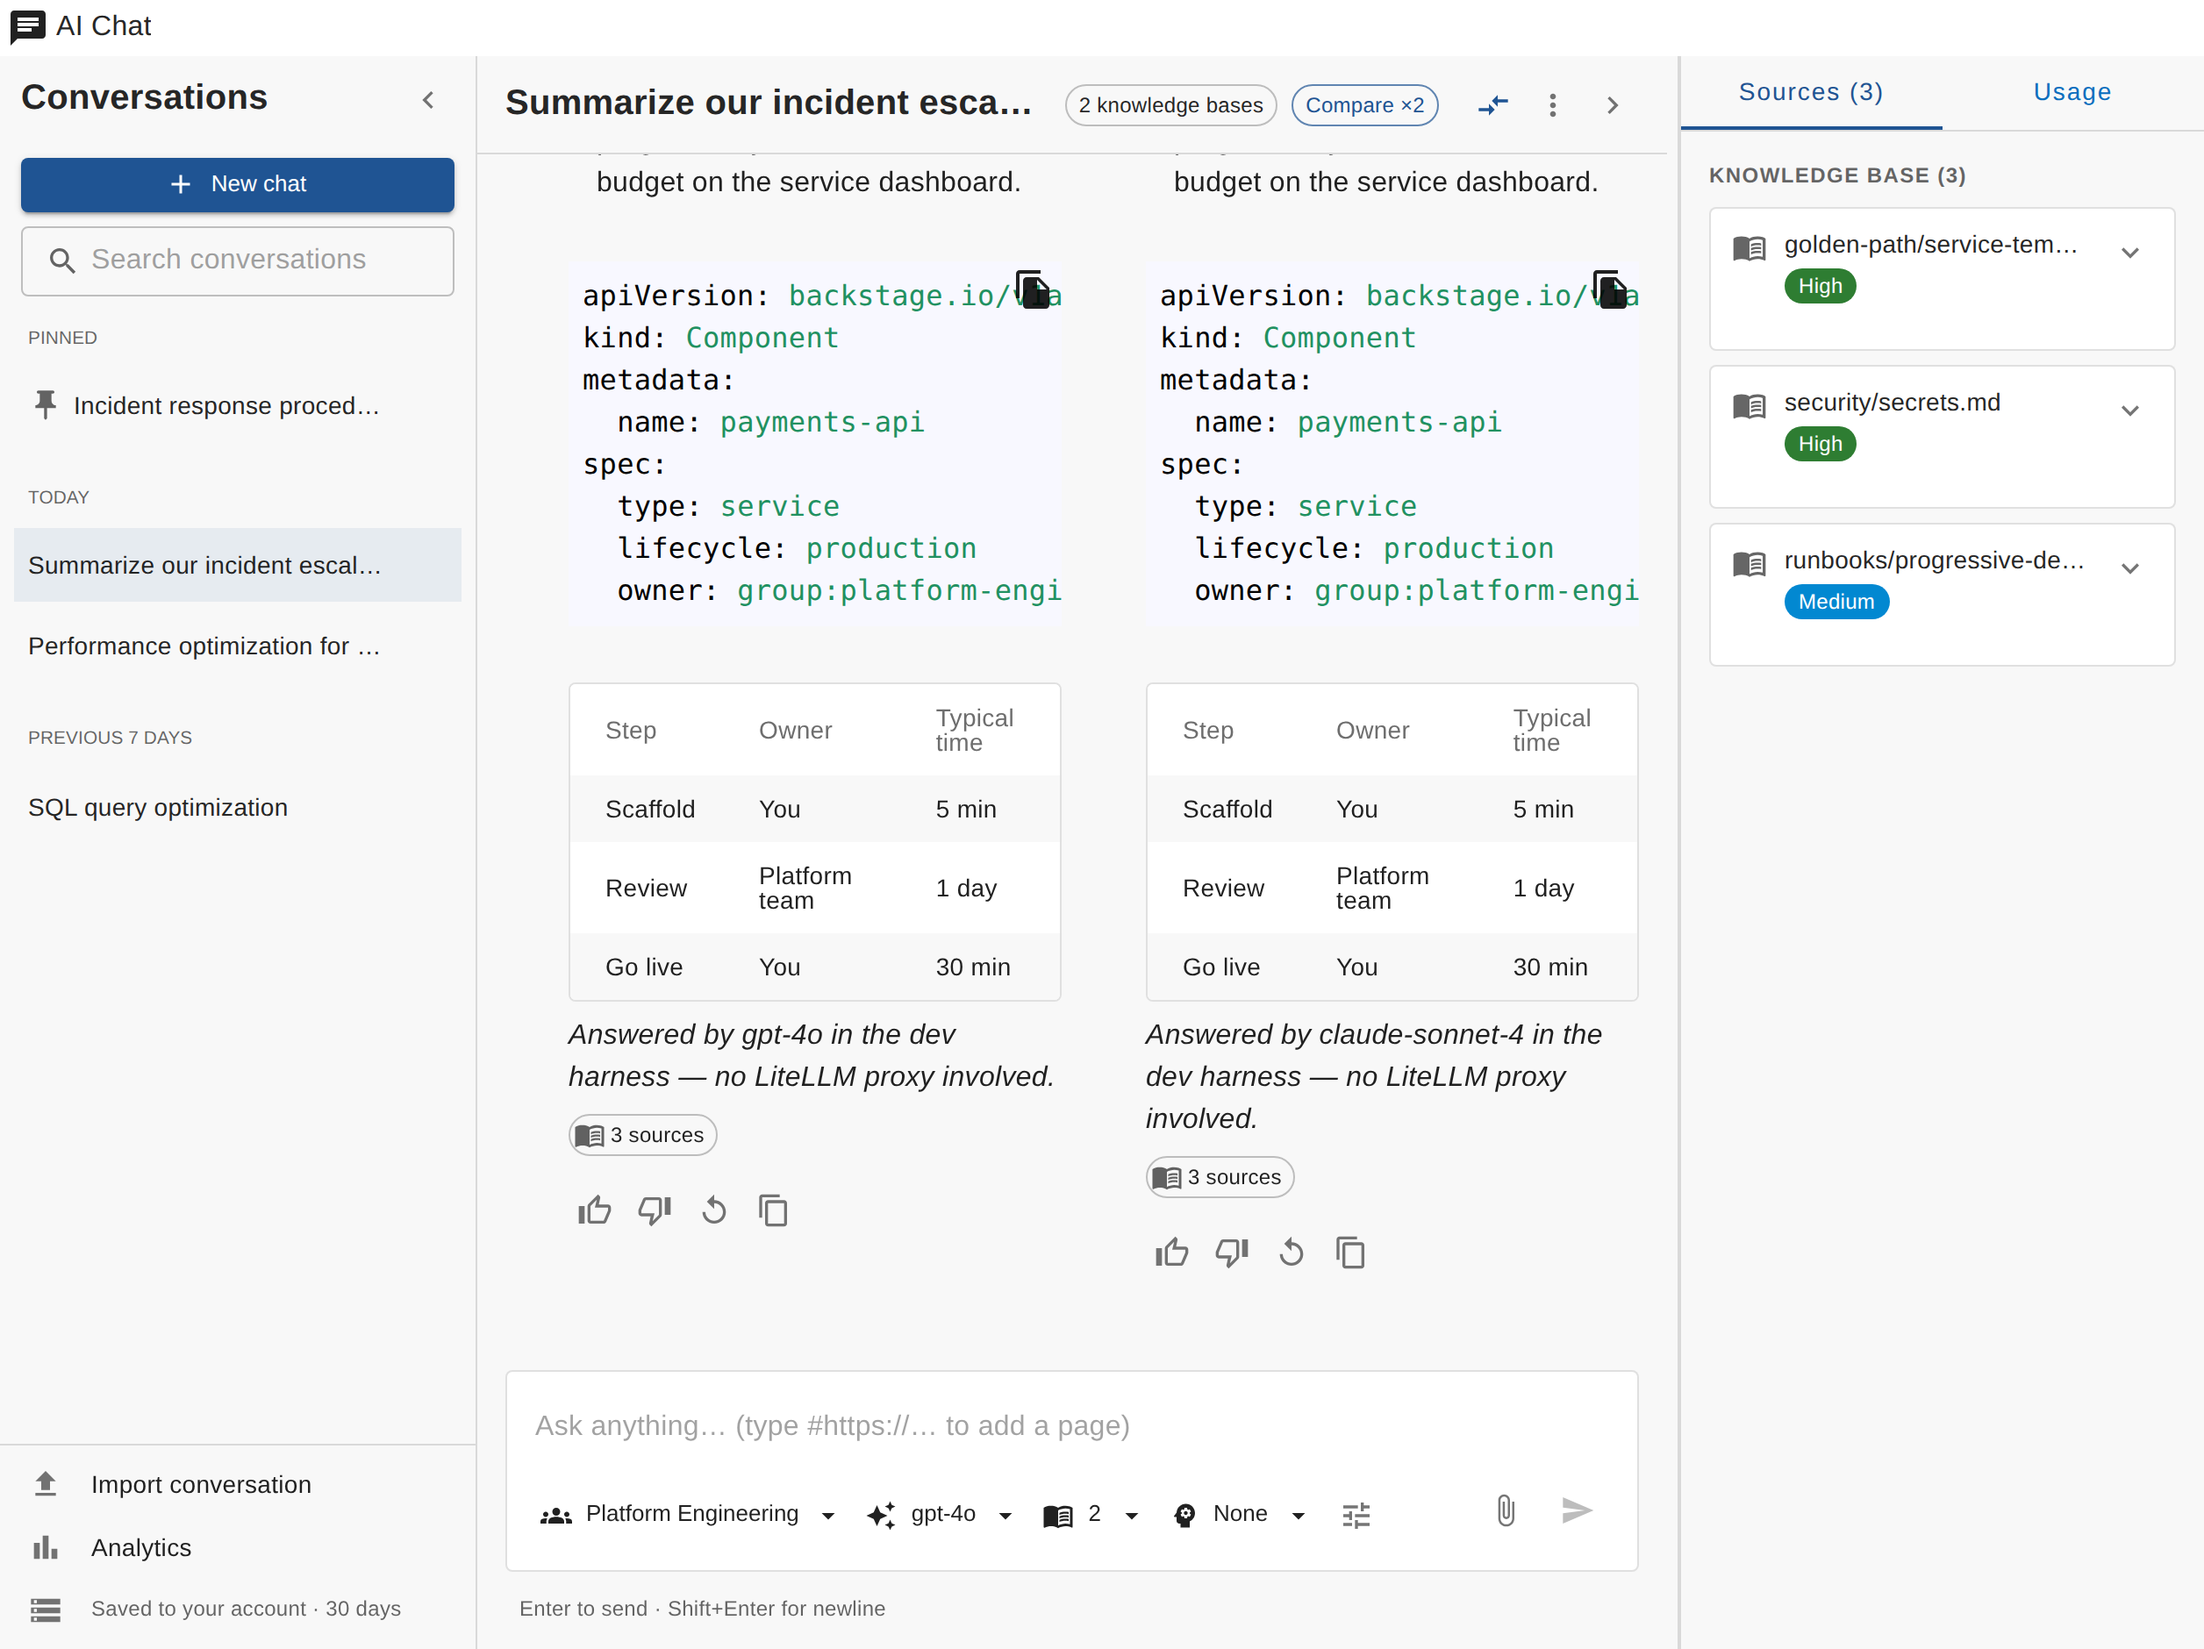
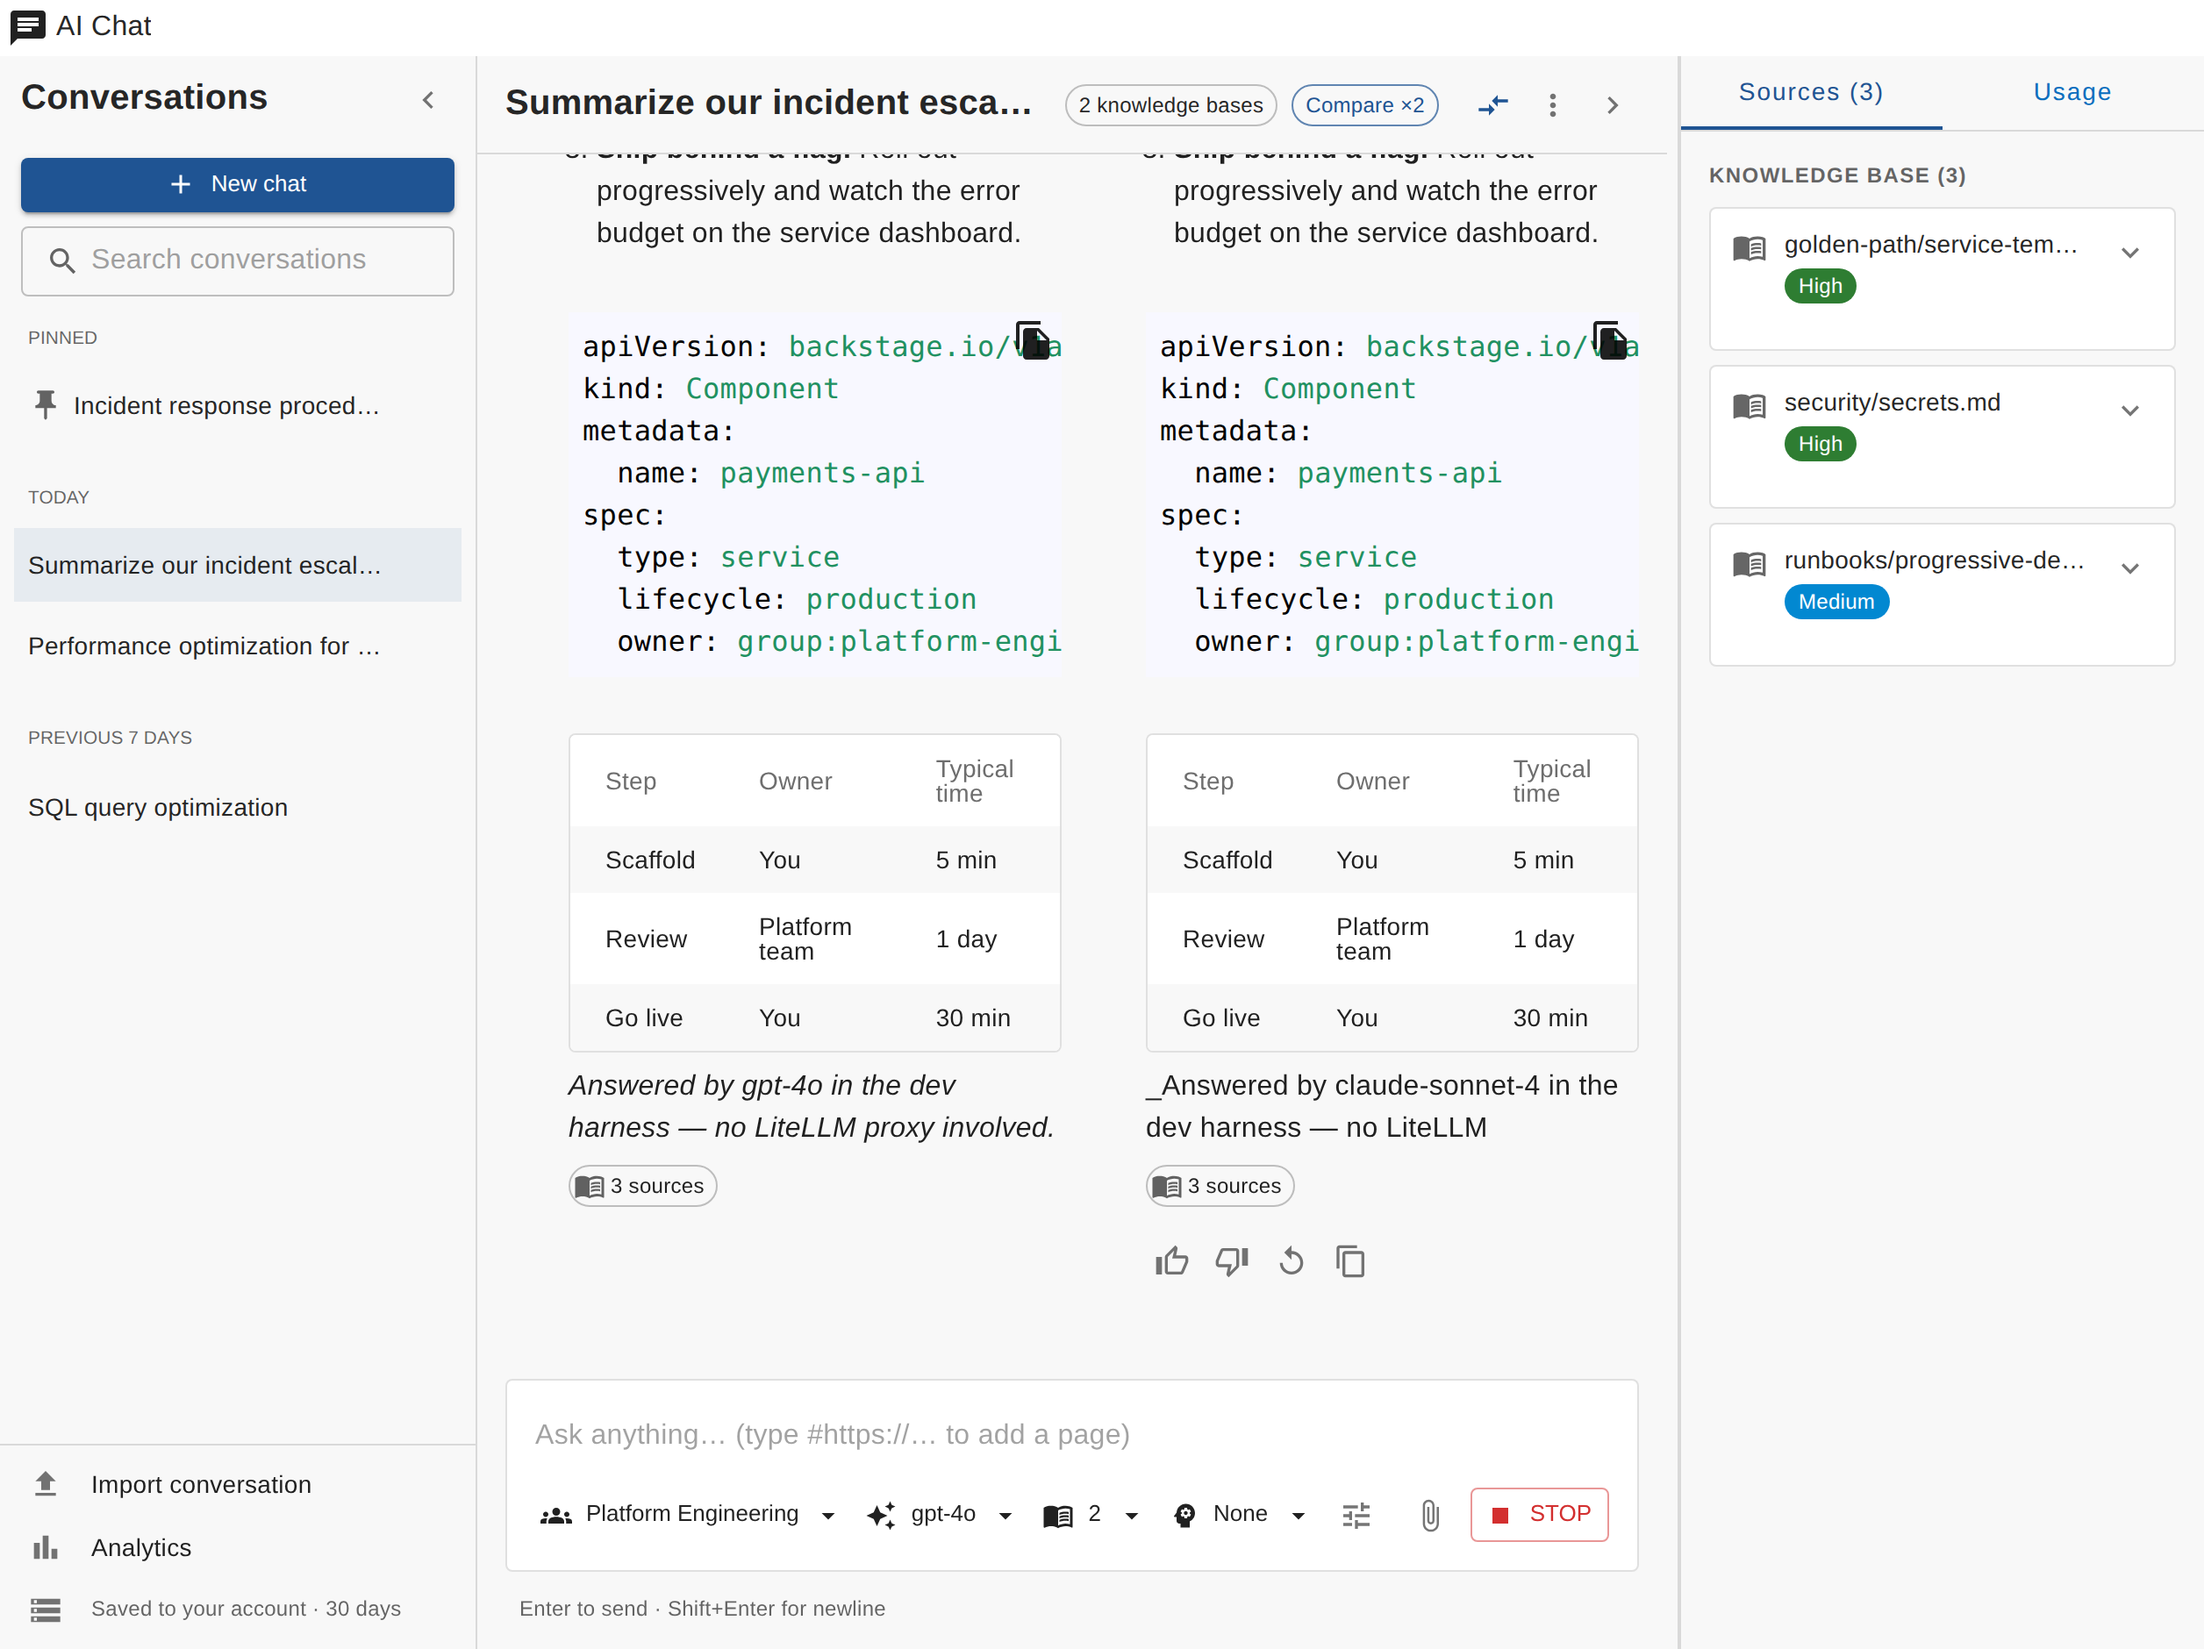
fix(frontend): one default for conversation settings; release 0.20.0
- Tone, focus and verbosity start unset ("Default") in every conversation
  and Reset to defaults clears them; before, only the first page load
  preselected the first option of each while new and reopened
  conversations started unset, so "Default" and "Reset to defaults" meant
  different things
- the Tune button shows a dot when any conversation setting is set
  (hasCustomSettings, shared with the drawer)
- the drawer closes with a standard close icon button
- user guide aligned with the restyled UI (Conversation settings, Default,
  placeholder lines and progress ring, Import conversation, footer)
- screenshots regenerated; frontend bumped to 0.20.0 (the backend has no
  changes and stays at 0.19.0)

Claude-Session: https://claude.ai/code/session_01FFkeEQaTM4CY29Q6s6VBeA

diff --git a/packages/plugin-ai-conversation/src/components/ChatComposer.tsx b/packages/plugin-ai-conversation/src/components/ChatComposer.tsx
@@ -1,5 +1,6 @@
 import React, { useState } from 'react';
 import {
+  Badge,
   Box,
   Button,
   Chip,
@@ -29,7 +30,7 @@ import { TeamPicker } from './TeamPicker';
 import { ModelPicker } from './ModelPicker';
 import { VectorStorePicker } from './VectorStorePicker';
 import { SkillPicker } from './SkillPicker';
-import { SettingsDrawer } from './SettingsDrawer';
+import { SettingsDrawer, hasCustomSettings } from './SettingsDrawer';
 import type { ChatConfig, ChatTeamInfo, ChatTraits, ReasoningEffort, Skill, UrlContextPreview } from '../types';
 
 export const ALLOWED_ATTACHMENT_MEDIA_TYPES = 'image/png,image/jpeg,image/webp,image/gif';
@@ -365,7 +366,22 @@ export const ChatComposer: React.FC<ChatComposerProps> = ({
                     onClick={() => setSettingsDrawerOpen(true)}
                     size="small"
                   >
-                    <TuneIcon fontSize="small" />
+                    <Badge
+                      variant="dot"
+                      color="primary"
+                      invisible={
+                        !hasCustomSettings({
+                          toneId,
+                          focusId,
+                          verbosityId,
+                          reasoningEffort,
+                          webSearch,
+                          customSystemPrompt,
+                        })
+                      }
+                    >
+                      <TuneIcon fontSize="small" />
+                    </Badge>
                   </IconButton>
                 </Box>
               </Tooltip>
@@ -477,10 +493,9 @@ export const ChatComposer: React.FC<ChatComposerProps> = ({
         customSystemPrompt={customSystemPrompt}
         onCustomSystemPromptChange={onCustomSystemPromptChange}
         onResetDefaults={() => {
-          // Reset to defaults handled by caller (ChatPage)
-          onToneChange(traits.tones[0]?.id || '');
-          onFocusChange(traits.focuses[0]?.id || '');
-          onVerbosityChange(traits.verbosities[0]?.id || '');
+          onToneChange('');
+          onFocusChange('');
+          onVerbosityChange('');
           onReasoningEffortChange('');
           onWebSearchChange(false);
           onCustomSystemPromptChange('');

diff --git a/packages/plugin-ai-conversation/src/components/SettingsDrawer.tsx b/packages/plugin-ai-conversation/src/components/SettingsDrawer.tsx
@@ -3,6 +3,7 @@ import {
   Box,
   Button,
   Divider,
+  IconButton,
   Drawer,
   FormControlLabel,
   Stack,
@@ -10,6 +11,7 @@ import {
   TextField,
   Typography,
 } from '@mui/material';
+import CloseIcon from '@mui/icons-material/Close';
 import { OptionPicker } from './OptionPicker';
 import type { ChatTraits, ReasoningEffort } from '../types';
 
@@ -31,6 +33,25 @@ export interface SettingsDrawerProps {
   customSystemPrompt: string;
   onCustomSystemPromptChange: (value: string) => void;
   onResetDefaults?: () => void;
+}
+
+/** True when any conversation setting differs from its default (unset). */
+export function hasCustomSettings(s: {
+  toneId: string;
+  focusId: string;
+  verbosityId: string;
+  reasoningEffort: string;
+  webSearch: boolean;
+  customSystemPrompt: string;
+}): boolean {
+  return (
+    !!s.toneId ||
+    !!s.focusId ||
+    !!s.verbosityId ||
+    !!s.reasoningEffort ||
+    s.webSearch ||
+    s.customSystemPrompt.trim() !== ''
+  );
 }
 
 const REASONING_EFFORTS: { id: ReasoningEffort | ''; label: string }[] = [
@@ -59,13 +80,14 @@ export const SettingsDrawer: React.FC<SettingsDrawerProps> = ({
   onCustomSystemPromptChange,
   onResetDefaults,
 }) => {
-  const hasNonDefaults =
-    toneId !== (traits.tones[0]?.id || '') ||
-    focusId !== (traits.focuses[0]?.id || '') ||
-    verbosityId !== (traits.verbosities[0]?.id || '') ||
-    reasoningEffort !== '' ||
-    webSearch ||
-    customSystemPrompt.trim() !== '';
+  const hasNonDefaults = hasCustomSettings({
+    toneId,
+    focusId,
+    verbosityId,
+    reasoningEffort,
+    webSearch,
+    customSystemPrompt,
+  });
 
   return (
     <Drawer
@@ -87,7 +109,9 @@ export const SettingsDrawer: React.FC<SettingsDrawerProps> = ({
           <Typography variant="h6">
             Conversation settings
           </Typography>
-          <Button size="small" onClick={onClose} variant="text">×</Button>
+          <IconButton size="small" aria-label="Close settings" onClick={onClose}>
+            <CloseIcon fontSize="small" />
+          </IconButton>
         </Box>
         <Divider />
 

diff --git a/packages/plugin-ai-conversation/src/components/SettingsDrawer.test.ts b/packages/plugin-ai-conversation/src/components/SettingsDrawer.test.ts
@@ -1,0 +1,28 @@
+import { hasCustomSettings } from './SettingsDrawer';
+
+const defaults = {
+  toneId: '',
+  focusId: '',
+  verbosityId: '',
+  reasoningEffort: '',
+  webSearch: false,
+  customSystemPrompt: '',
+};
+
+describe('hasCustomSettings', () => {
+  it('is false when everything is unset', () => {
+    expect(hasCustomSettings(defaults)).toBe(false);
+    expect(hasCustomSettings({ ...defaults, customSystemPrompt: '   ' })).toBe(false);
+  });
+
+  it.each([
+    ['toneId', 'friendly'],
+    ['focusId', 'code'],
+    ['verbosityId', 'concise'],
+    ['reasoningEffort', 'high'],
+    ['webSearch', true],
+    ['customSystemPrompt', 'Answer in Italian'],
+  ])('is true when %s is set', (key, value) => {
+    expect(hasCustomSettings({ ...defaults, [key]: value })).toBe(true);
+  });
+});

diff --git a/packages/plugin-ai-conversation/src/components/ChatPage.tsx b/packages/plugin-ai-conversation/src/components/ChatPage.tsx
@@ -124,12 +124,9 @@ export const ChatPage: React.FC = () => {
 
     chatApi
       .getChatTraits()
-      .then(t => {
-        setTraits(t);
-        setToneId(prev => prev || t.tones[0]?.id || '');
-        setFocusId(prev => prev || t.focuses[0]?.id || '');
-        setVerbosityId(prev => prev || t.verbosities[0]?.id || '');
-      })
+      // No trait is preselected: "Default" (none) is what every conversation
+      // starts with, and what Reset to defaults goes back to.
+      .then(setTraits)
       .catch(() => {})
       .finally(() => setTraitsLoading(false));
 

diff --git a/docs/user-guide.md b/docs/user-guide.md
@@ -38,7 +38,7 @@ The buttons under the message box change the next turn of this conversation:
 | **Model** | The model that answers; only models your team can call are listed |
 | **Knowledge** | Knowledge bases to search before answering; the team's own are preselected |
 | **Skill** | A system prompt preset (for example *Code Reviewer*); it may preselect a model and knowledge bases |
-| **Tune** | Style and advanced options (below) |
+| **Tune** (sliders icon) | Opens *Conversation settings* (below); a dot on the icon means something differs from the defaults |
 
 Other inputs:
 
@@ -50,7 +50,7 @@ Other inputs:
 - **Budget** — the line under the composer shows what the conversation's key
   has spent out of its budget.
 
-### Tune
+### Conversation settings (Tune)
 
 ![Conversation settings](images/tune-drawer.png)
 
@@ -59,16 +59,20 @@ Other inputs:
 | Tone | Friendly, formal, direct, Socratic or playful |
 | Focus | Explain reasoning, actionable, code-first, business impact, or risk & edge cases |
 | Verbosity | Concise, balanced or thorough |
-| Reasoning effort | Low, medium or high, for models that support it; *Model default* sends nothing |
+| Reasoning effort | Low, medium or high, for models that support it; *Default* sends nothing |
 | Web search | Lets models with a web search tool look things up, alongside the knowledge bases |
 | Extra instructions | Your own system instructions for this conversation |
 
-Tone, focus and verbosity are added to the skill's prompt on the server, so
-any skill works with any style.
+*Default* leaves tone, focus and verbosity out. They are added to the skill's
+prompt on the server, so any skill works with any style. **Reset to defaults**
+clears everything in the panel.
 
 ## Reading answers
 
-- Code blocks have a copy button; tables scroll sideways; LaTeX is rendered.
+- While the model prepares the answer, placeholder lines show; the avatar has a
+  progress ring until the answer is complete.
+- Code blocks are syntax-highlighted with a copy button; tables scroll
+  sideways; LaTeX is rendered.
 - Under each answer: copy, regenerate, 👍 / 👎 (feedback for the analytics
   page), and **N sources** when the answer used a knowledge base or the web.
 - Hover your own message to copy it or edit and resend it (the conversation
@@ -105,11 +109,11 @@ team can call; turn it off from the same button.
   JSON, Export Markdown, Delete.
 - The header menu: Copy as Markdown, Export Markdown, Export JSON, Keyboard
   shortcuts. Click the title to rename.
-- **Import** (sidebar footer) loads a JSON export. Exports never contain the
+- **Import conversation** (sidebar footer) loads a JSON export. Exports never contain the
   conversation's key.
-- The footer says where conversations are kept: in this browser only, or in
-  your account (with the retention period) when the operator enabled
-  server-side storage.
+- The footer links to **Analytics** and says where conversations are kept: in
+  this browser only, or in your account (with the retention period) when the
+  operator enabled server-side storage; hover it for details.
 
 ## Keyboard shortcuts
 

diff --git a/packages/plugin-ai-conversation/CHANGELOG.md b/packages/plugin-ai-conversation/CHANGELOG.md
@@ -1,6 +1,6 @@
 # Changelog
 
-## Unreleased
+## 0.20.0 — 2026-10-05
 
 ### Changed
 
@@ -13,6 +13,11 @@
   the KaTeX stylesheet (`cdn.jsdelivr.net`) is still needed in your Content
   Security Policy.
 - New dependency: `@backstage/core-components`.
+- Tone, focus and verbosity start unset ("Default") in every conversation, and
+  **Reset to defaults** clears them. Before, only the first page load
+  preselected Friendly / Explain reasoning / Concise, while new and reopened
+  conversations started unset.
+- The Tune button shows a dot when any conversation setting is set.
 
 ## 0.19.0 — 2026-10-05
 
